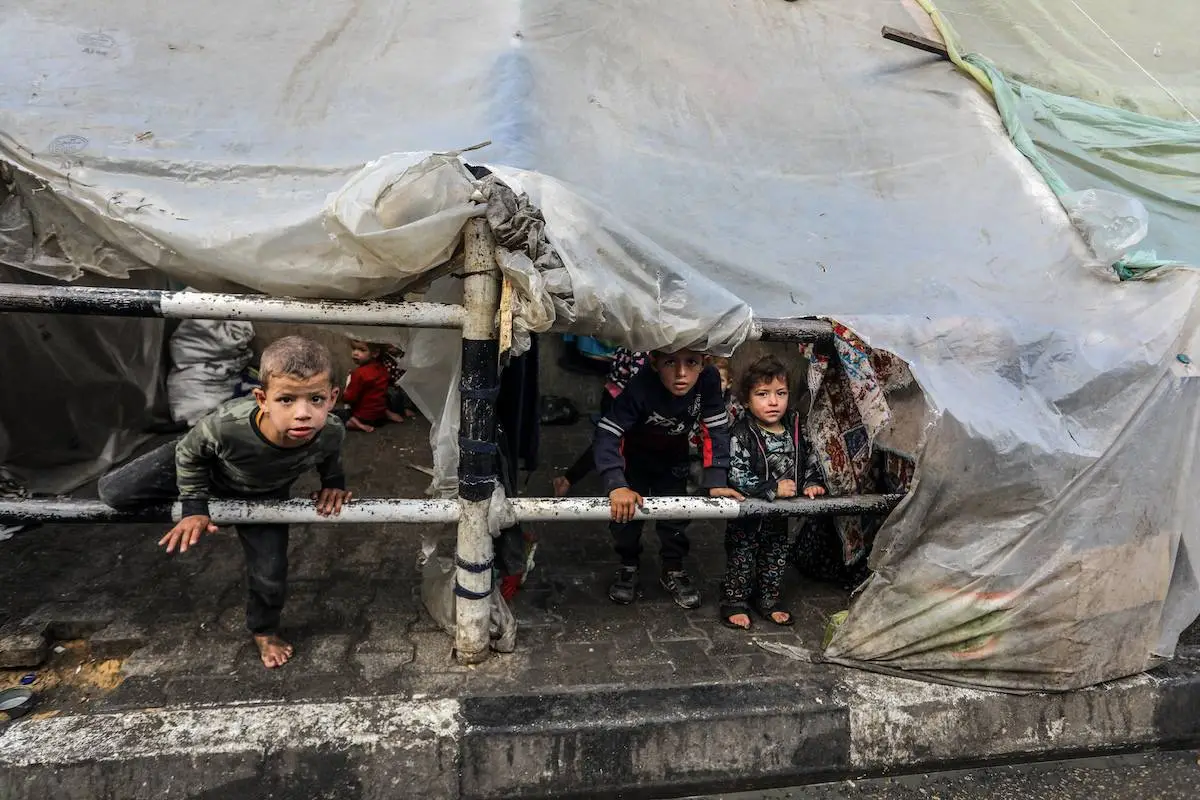
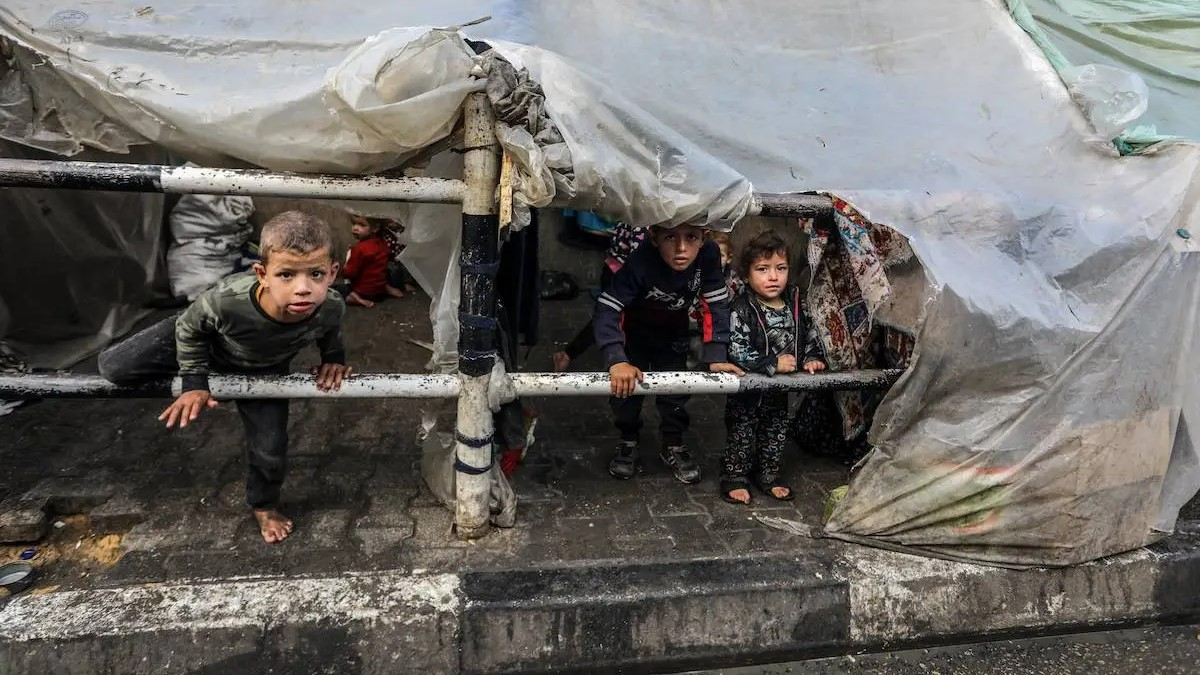
half work done

diff --git a/index.html b/index.html
@@ -8,6 +8,7 @@
     <link rel="preconnect" href="https://fonts.googleapis.com">
     <link rel="preconnect" href="https://fonts.gstatic.com" crossorigin>
     <link href="https://fonts.googleapis.com/css2?family=Merriweather&display=swap" rel="stylesheet">
+    <link rel="stylesheet" href="https://cdnjs.cloudflare.com/ajax/libs/font-awesome/6.6.0/css/all.min.css" integrity="sha512-Kc323vGBEqzTmouAECnVceyQqyqdsSiqLQISBL29aUW4U/M7pSPA/gEUZQqv1cwx4OnYxTxve5UMg5GT6L4JJg==" crossorigin="anonymous" referrerpolicy="no-referrer" />
 </head>
 <body>
     <header class="top-banner">
@@ -24,5 +25,61 @@
             <a class="link-button" target="_blank" href="">Donate Now</a>
         </div>
     </header>  
+    <div class="donate-today">
+        <h1 id="donate-header">Donate Today</h1>
+        <p id="donate-paragraph">
+            Donate today and be a beacon of hope for those facing severe adversity
+        </p>
+    </div>
+    <section class="flexible-container-amount">
+        <div class="amount-box">
+            <h1>100Tk</h1>
+        </div>
+        <div class="different-box amount-box">
+            <h1>200Tk</h1>
+        </div>
+        <div class="amount-box">
+            <h1>500Tk</h1>
+        </div>
+        <div class="amount-box">
+            <h1>1000Tk</h1>
+        </div>
+        <div class="amount-box">
+            <h1>5000Tk</h1>
+        </div>
+    </section>
+    <div class="donate-plan">
+        <h1 id="donate-header">Our Donate Plan</h1>
+        <p id="donate-paragraph">
+            Our donation plan is simple and impactful. Every contribution you make goes directly to providing<br>essential aid, including food, medical supplies, and shelter, to those in urgent need."
+        </p>
+    </div>
+    <section class="flexible-container">
+        <div class="food-box plan-box">
+            <i class="fa-solid fa-bowl-food" style="font-size: 40px;"></i>
+            <h1>Food For a Family</h1>
+            <p>
+                Ensuring that a family has consistent access to nutritious food is crucial for their health and well-being. It involves securing a reliable food supply, whether through purchasing, growing, or receiving aid, to meet the daily dietary needs of all family members.
+            </p>
+        </div>
+        <div class="shelter-box plan-box">
+            <i class="fa-solid fa-house-chimney-window" style="font-size: 40px;"></i>
+            <h1>
+                Shelter For a Family
+            </h1>
+            <p>
+                A safe and stable shelter provides a family with protection from the elements and a secure environment. It is fundamental for a family's physical safety, emotional well-being, and stability, offering a space to rest, live, and thrive.
+            </p>
+        </div>
+        <div class="medical-box plan-box">
+            <i class="fa-solid fa-truck-medical" style="font-size: 40px;"></i>
+            <h1>
+                Medical Help For a Family 
+            </h1>
+            <p>
+                Ensures that families receive necessary healthcare services for illness prevention, treatment, and overall well-being includes regular check-ups, emergency care, vaccinations, and specialized treatments, which are vital for maintaining good health and addressing any medical issues that may arise.
+            </p>
+        </div>
+    </section>
 </body>
 </html>

diff --git a/styles.css b/styles.css
@@ -27,9 +27,72 @@ body{
 }
 
 .top-banner{
-    background-image: url(images/brothers.jpg);
+    background-image: url(images/chidren.jpg);
     background-repeat: no-repeat;
     background-size: cover;
     text-align: center;
     padding-bottom: 10%;
+}
+
+#donate-header{
+    text-align: center;
+    size: 50px;
+    font-weight: 700;
+}
+
+#donate-paragraph{
+    text-align: center;
+    size: 20px;
+}
+
+.donate-today{
+    padding-top: 100px;
+    padding-bottom: 50px;
+}
+
+.flexible-container{
+    display: flex;
+    margin: 100px 100px;
+}
+
+.flexible-container-amount{
+    display: flex;
+    margin-left: 400px;
+    margin-right: 400px;
+    margin-bottom: 100px;
+}
+
+.amount-box{
+    width: 70%;
+    margin: 2px 2px;
+    border: 0px solid;
+    padding: 30px;
+    border-radius: 5px;
+    background-color: rgb(237, 232, 232);
+}
+
+.different-box{
+    background-color: rgb(222, 180, 187);
+    border: 2px solid rgb(216, 44, 44);
+    color: rgb(224, 42, 42);
+}
+
+.plan-box{
+    margin: 10px;
+    border: 0px solid;
+    padding: 30px;
+    border-radius: 5px;
+}
+
+.food-box{
+    background-color: rgb(222, 232, 235);
+}
+
+.shelter-box{
+    background-color: rgb(241, 220, 223);
+
+}
+
+.medical-box{
+    background-color: rgb(238, 230, 215);
 }
